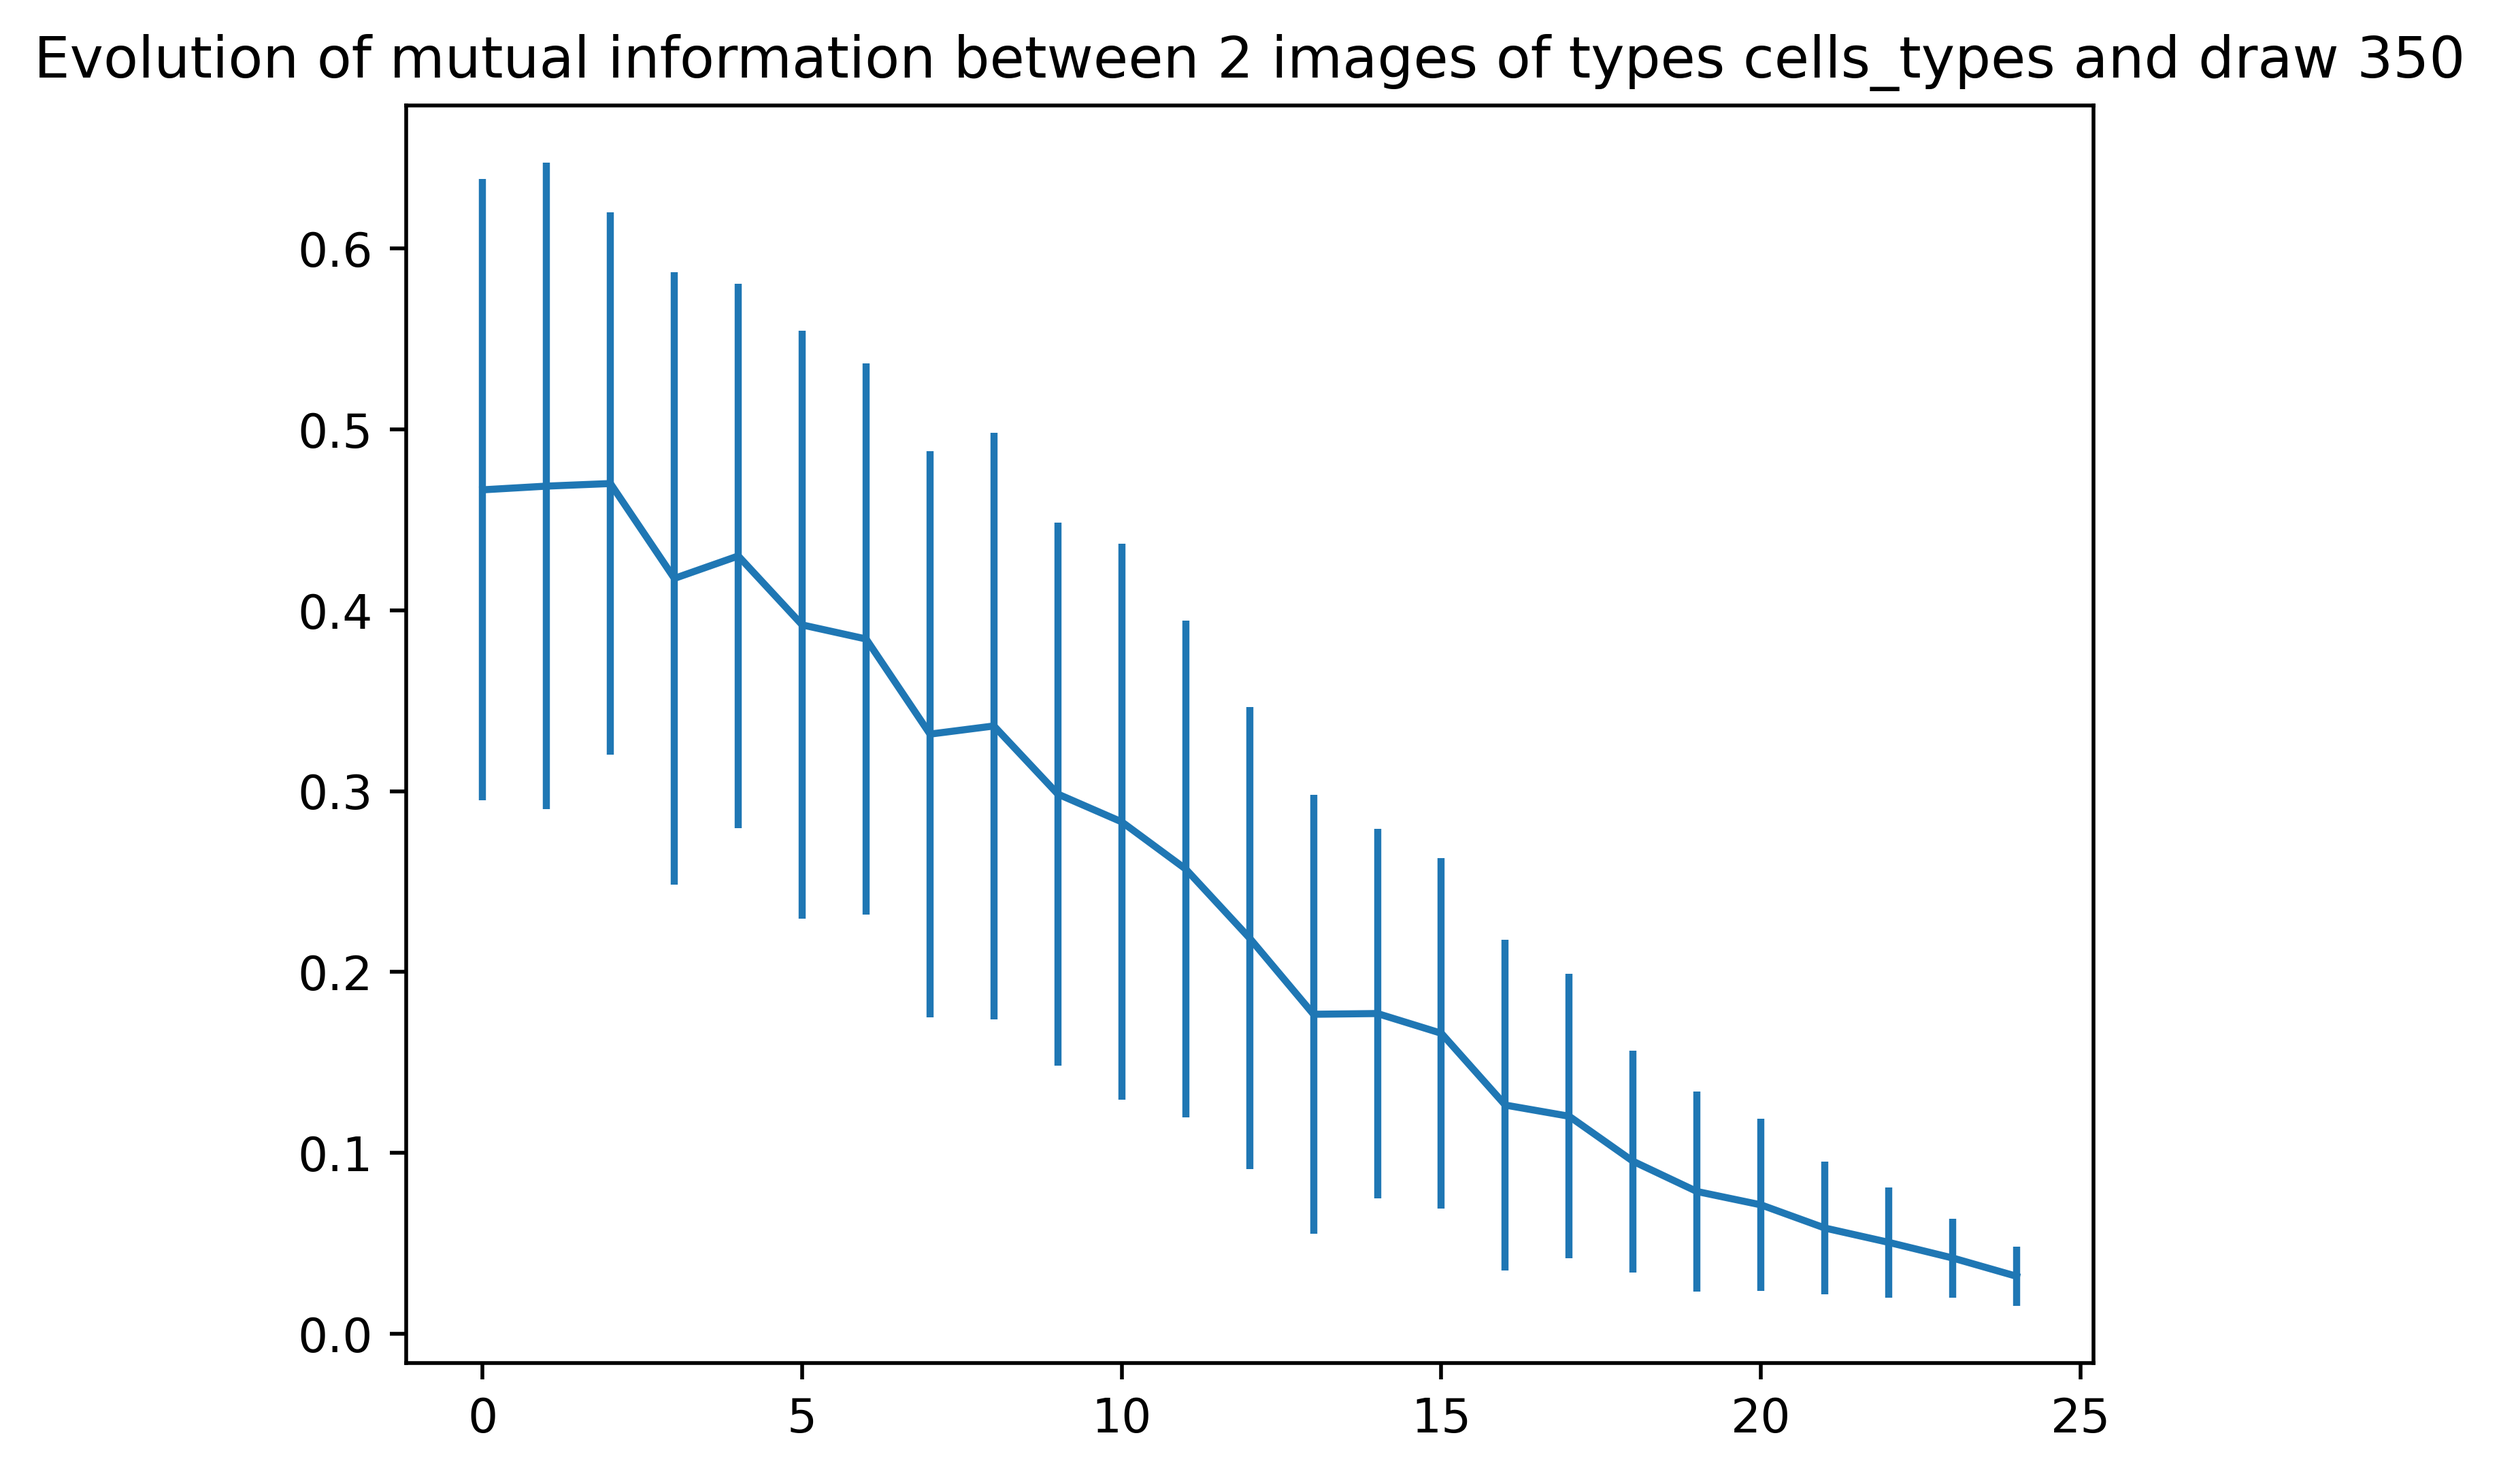
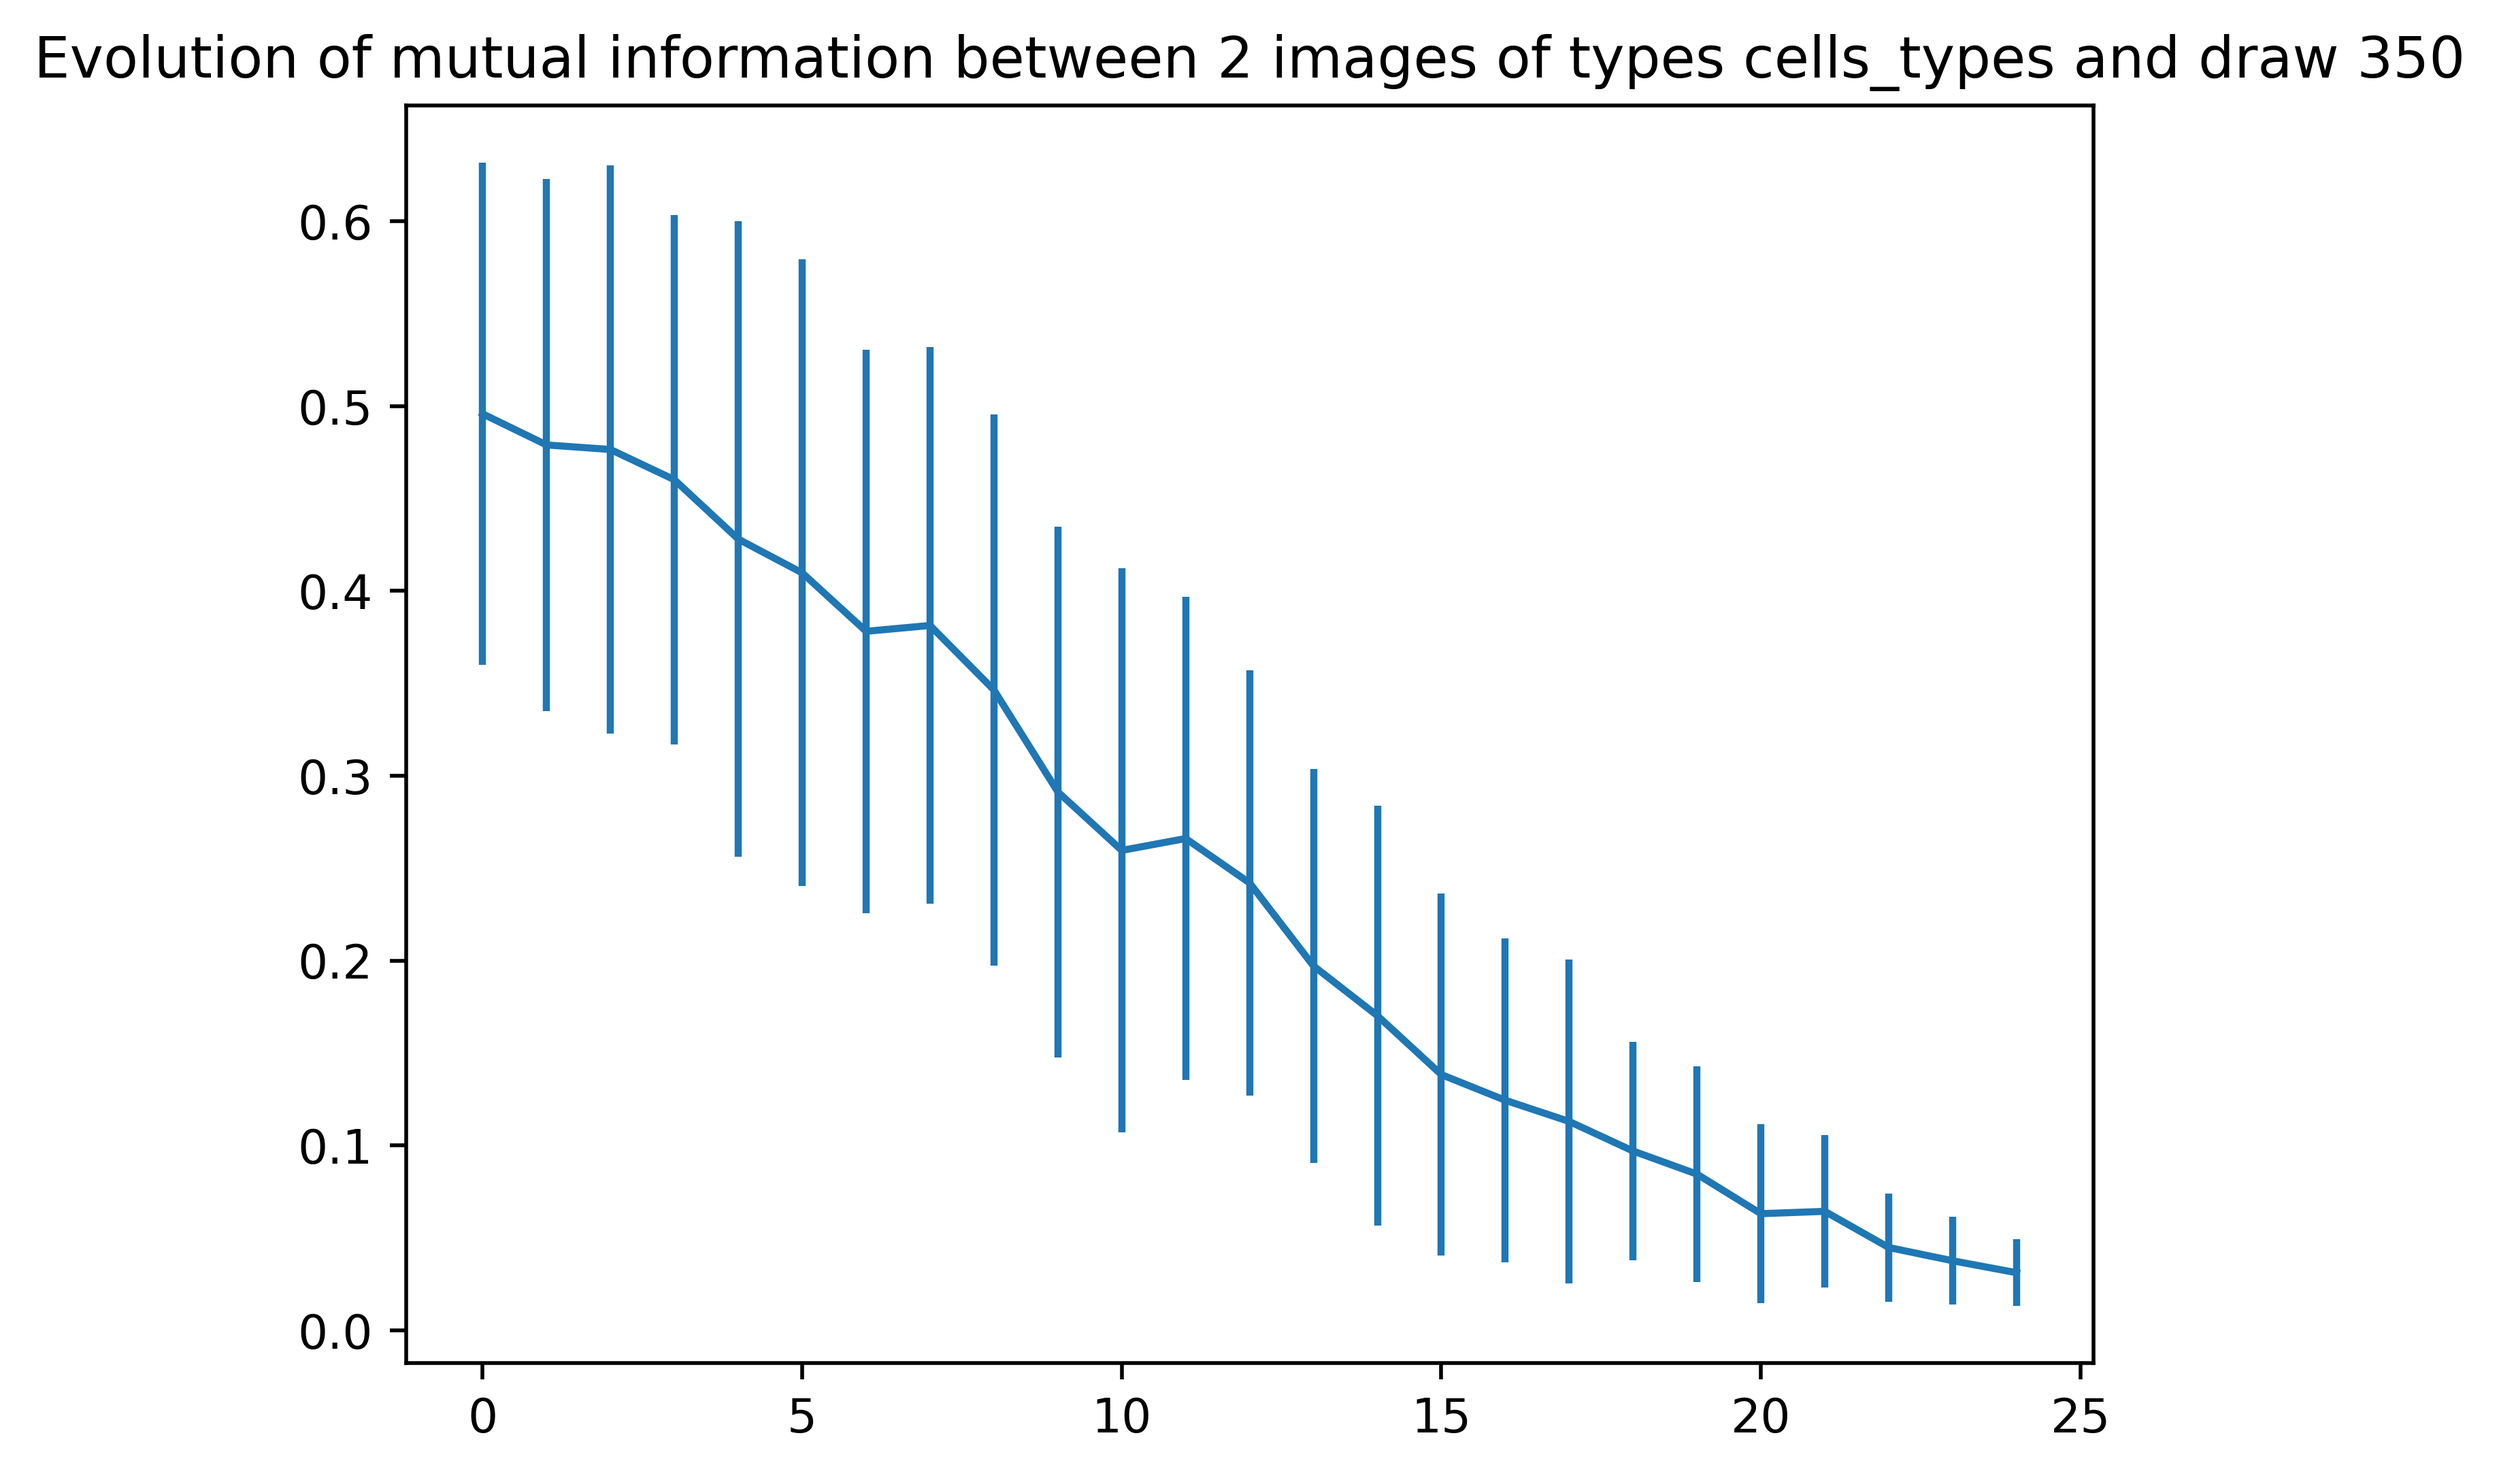
add continuous mutual information

diff --git a/simulation_similarity_analysis/metrics.py b/simulation_similarity_analysis/metrics.py
@@ -4,6 +4,7 @@ import math
 import numpy as np
 from scipy import signal
 from sklearn.metrics import normalized_mutual_info_score
+from sklearn.feature_selection import mutual_info_regression
 
 
 def ssim_function(image1, image2):
@@ -35,6 +36,7 @@ class Metric(Enum):
     CORRELATION = 6
     DICE = 7
     MUTUAL_INFORMATION = 8
+    CONTINUOUS_MUTUAL_INFORMATION = 9
 
     def __str__(self):
         if self == Metric.IMAGE_ABSOLUTE_DIFFERENCE:
@@ -55,6 +57,8 @@ class Metric(Enum):
             return "sørensen–Dice coefficient "
         elif self == Metric.MUTUAL_INFORMATION:
             return "mutual information"
+        elif self == Metric.CONTINUOUS_MUTUAL_INFORMATION:
+            return "continuous mutual information"
 
     def get_function(self):
         if self == Metric.IMAGE_ABSOLUTE_DIFFERENCE:
@@ -75,3 +79,5 @@ class Metric(Enum):
             return dice_function
         elif self == Metric.MUTUAL_INFORMATION:
             return lambda a, b: normalized_mutual_info_score(a.flatten(), b.flatten())
+        elif self == Metric.CONTINUOUS_MUTUAL_INFORMATION:
+            return lambda a, b: mutual_info_regression(np.array([a.flatten()]).transpose(), b.flatten())[0]

diff --git a/simulation_similarity_analysis/similarity_study.py b/simulation_similarity_analysis/similarity_study.py
@@ -60,8 +60,5 @@ class SimilarityAnalysis:
 
 if __name__ == '__main__':
     sim = SimilarityAnalysis("cell_cycle", 0, "full_dataset_start=350_interval=100_ndraw=8_size=(64,64)")
-    sim.plot_mean_difference_image_square(350, 100, range(25))
-    for image_type in ['cells_types', 'cells_densities', 'oxygen', 'glucose']:
-        for metric in range(1, 9):
-            print(Metric(metric))
-            sim.plot_metrics(Metric(metric), 350, 100, image_type, range(25))
+    for image_type in ['cells_densities', 'oxygen', 'glucose']:
+        sim.plot_metrics(Metric.CONTINUOUS_MUTUAL_INFORMATION, 350, 100, image_type, range(25))
